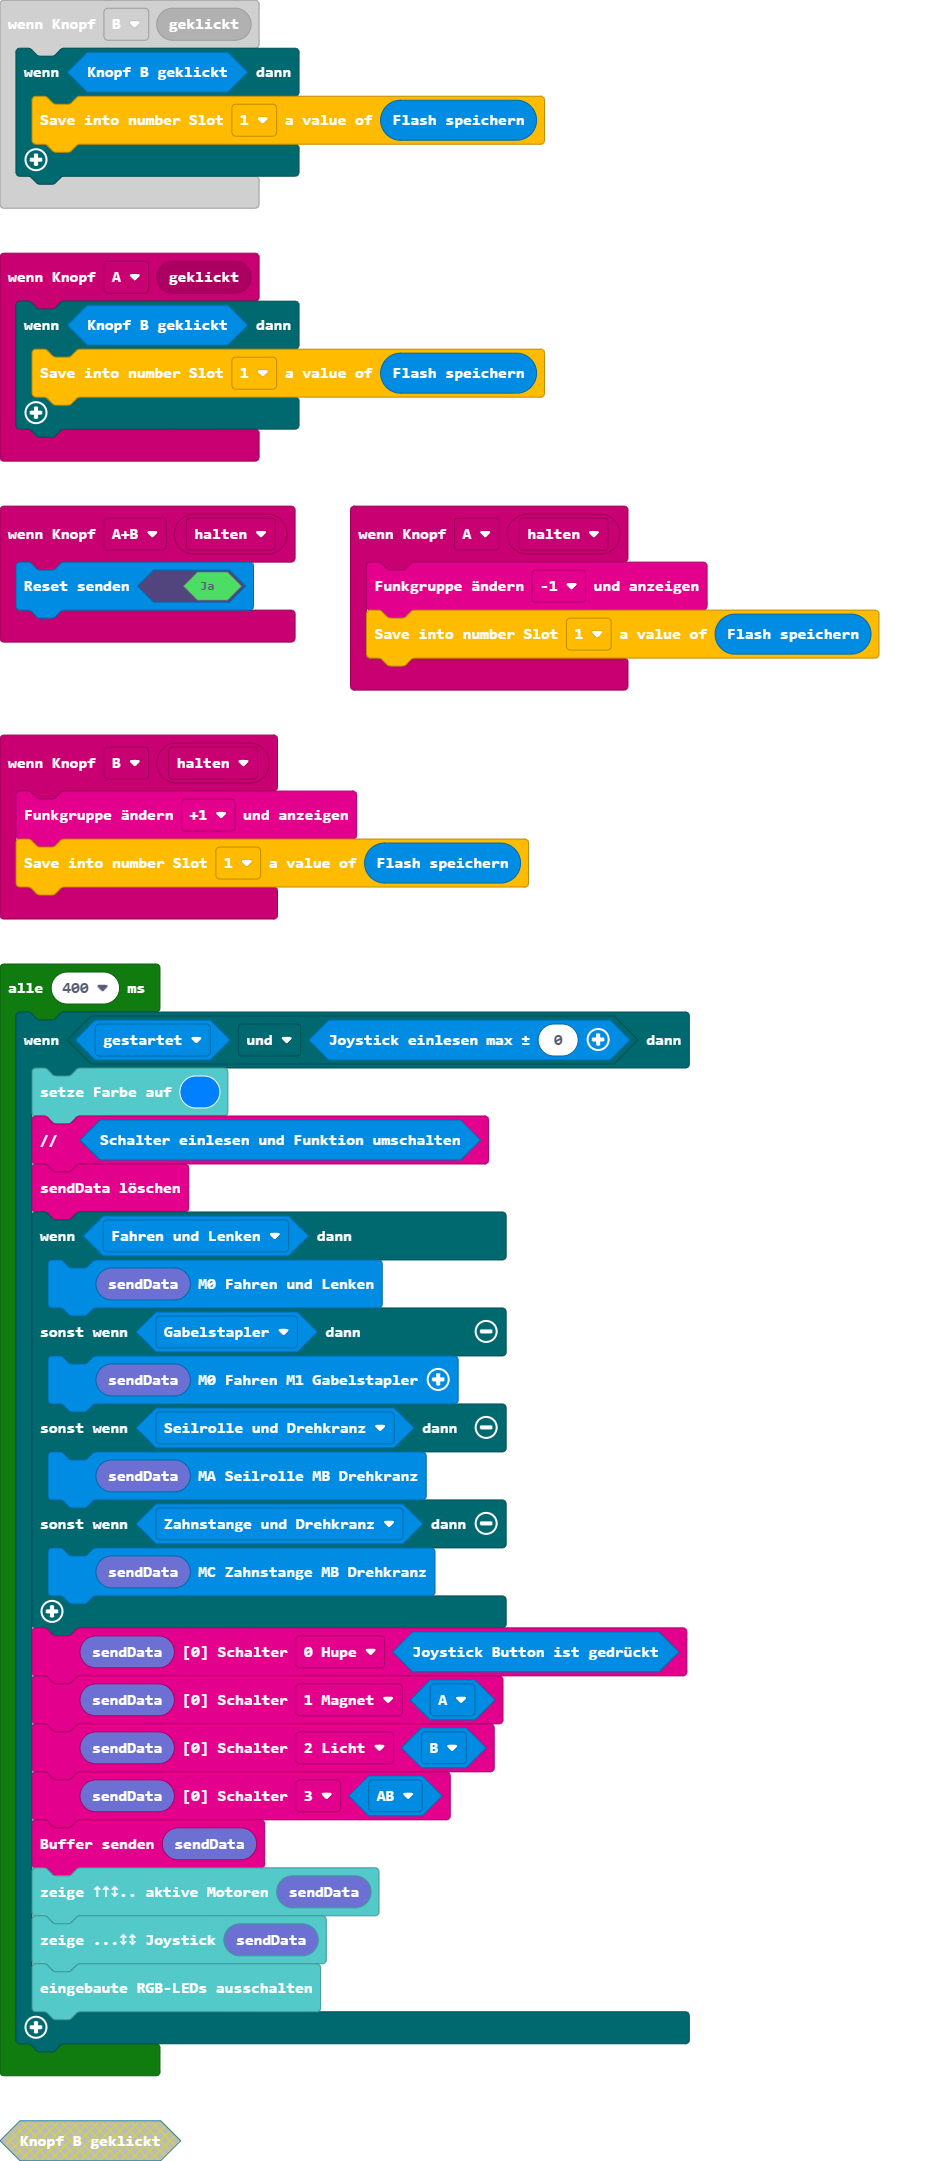
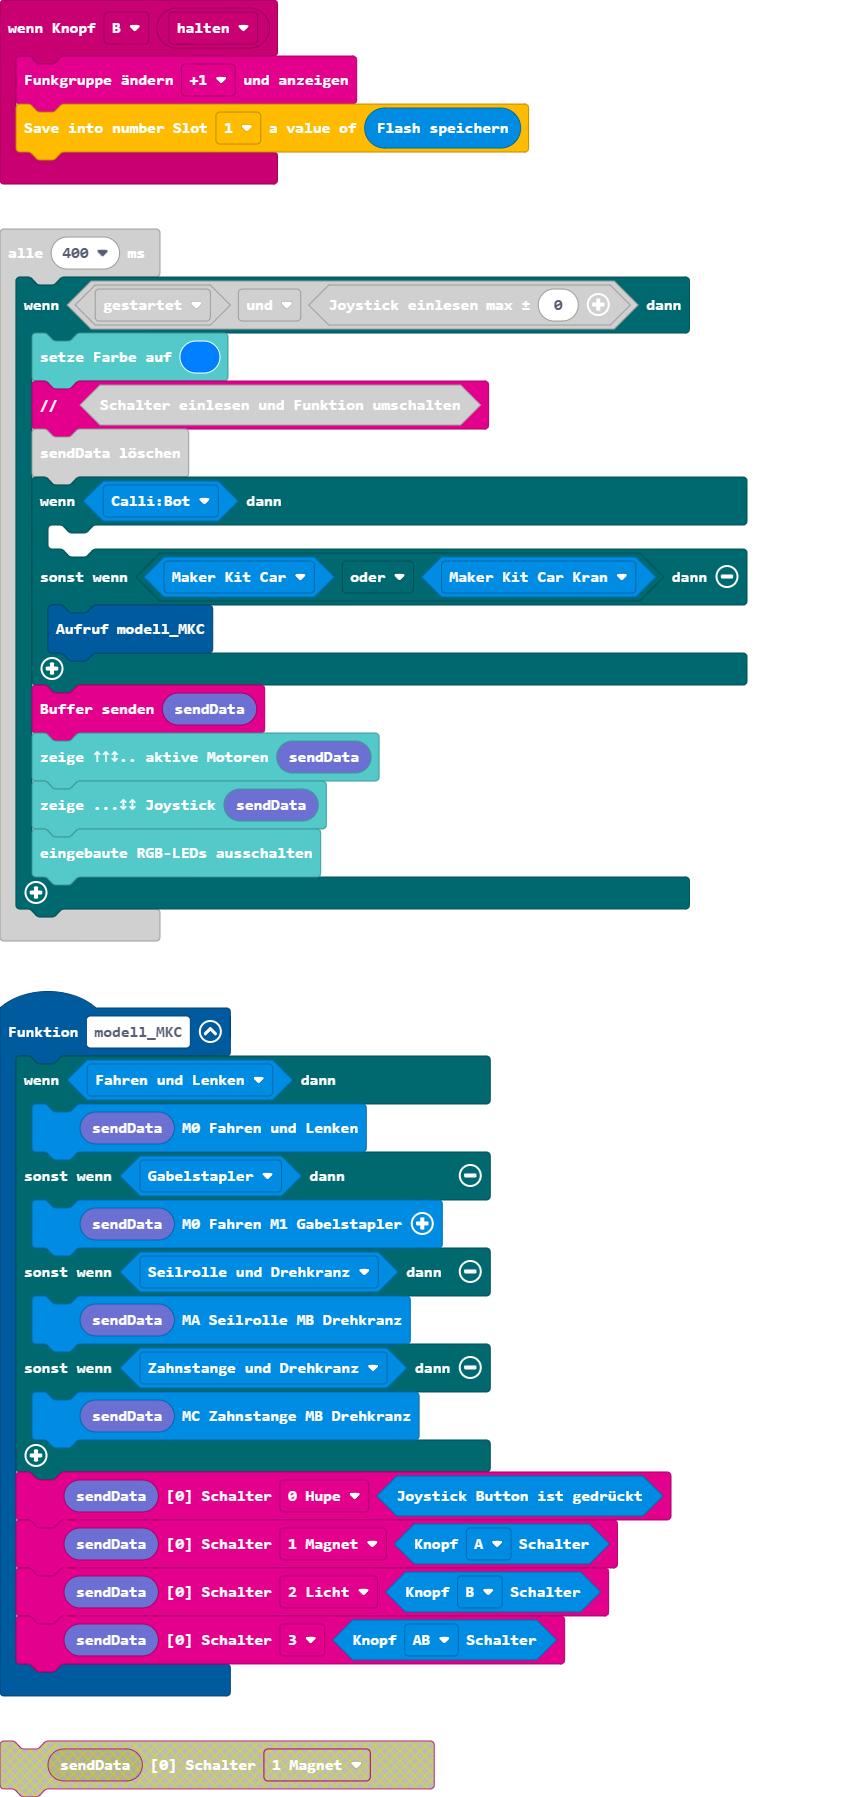
Aktualisiere pxt.json, main.blocks, main.ts

diff --git a/main.ts b/main.ts
@@ -11,6 +11,21 @@ input.onButtonEvent(Button.B, input.buttonEventClick(), function () {
         storage.putNumber(StorageSlots.s1, sender.storageBufferGet())
     }
 })
+function modell_MKC () {
+    if (sender.isFunktion(sender.eFunktion.m0_s0)) {
+        sender.sendM0(radio.radio_sendBuffer19())
+    } else if (sender.isFunktion(sender.eFunktion.m0_m1_s0)) {
+        sender.sendM01(radio.radio_sendBuffer19())
+    } else if (sender.isFunktion(sender.eFunktion.ma_mb)) {
+        sender.sendMAB(radio.radio_sendBuffer19())
+    } else if (sender.isFunktion(sender.eFunktion.mc_mb)) {
+        sender.sendMCB(radio.radio_sendBuffer19())
+    }
+    radio.setSchalter(radio.radio_sendBuffer19(), radio.e0Schalter.b0, sender.joystickButtonPosition())
+    radio.setSchalter(radio.radio_sendBuffer19(), radio.e0Schalter.b1, sender.getButtonAB_Switch(sender.eButtonAB_Switch.A))
+    radio.setSchalter(radio.radio_sendBuffer19(), radio.e0Schalter.b2, sender.getButtonAB_Switch(sender.eButtonAB_Switch.B))
+    radio.setSchalter(radio.radio_sendBuffer19(), radio.e0Schalter.b3, sender.getButtonAB_Switch(sender.eButtonAB_Switch.AB))
+}
 input.onButtonEvent(Button.A, ButtonEvent.Hold, function () {
     radio.setFunkgruppeButton(radio.eFunkgruppeButton.minus)
     storage.putNumber(StorageSlots.s1, sender.storageBufferGet())
@@ -32,19 +47,11 @@ loops.everyInterval(400, function () {
         basic.setLedColor(0x007fff)
         radio.comment(sender.multiswitchGrove())
         radio.fill_sendBuffer19()
-        if (sender.isFunktion(sender.eFunktion.m0_s0)) {
-            sender.sendM0(radio.radio_sendBuffer19())
-        } else if (sender.isFunktion(sender.eFunktion.m0_m1_s0)) {
-            sender.sendM01(radio.radio_sendBuffer19())
-        } else if (sender.isFunktion(sender.eFunktion.ma_mb)) {
-            sender.sendMAB(radio.radio_sendBuffer19())
-        } else if (sender.isFunktion(sender.eFunktion.mc_mb)) {
-            sender.sendMCB(radio.radio_sendBuffer19())
+        if (sender.isModell(sender.eModell.cb2e)) {
+        	
+        } else if (sender.isModell(sender.eModell.mkcg) || sender.isModell(sender.eModell.mkck)) {
+            modell_MKC()
         }
-        radio.setSchalter(radio.radio_sendBuffer19(), radio.e0Schalter.b0, sender.joystickButtonPosition())
-        radio.setSchalter(radio.radio_sendBuffer19(), radio.e0Schalter.b1, sender.getSchalter(sender.eSchalter.A))
-        radio.setSchalter(radio.radio_sendBuffer19(), radio.e0Schalter.b2, sender.getSchalter(sender.eSchalter.B))
-        radio.setSchalter(radio.radio_sendBuffer19(), radio.e0Schalter.b3, sender.getSchalter(sender.eSchalter.AB))
         radio.sendData(radio.radio_sendBuffer19())
         radio.zeige5x5Buffer(radio.radio_sendBuffer19())
         radio.zeige5x5Joystick(radio.radio_sendBuffer19())
